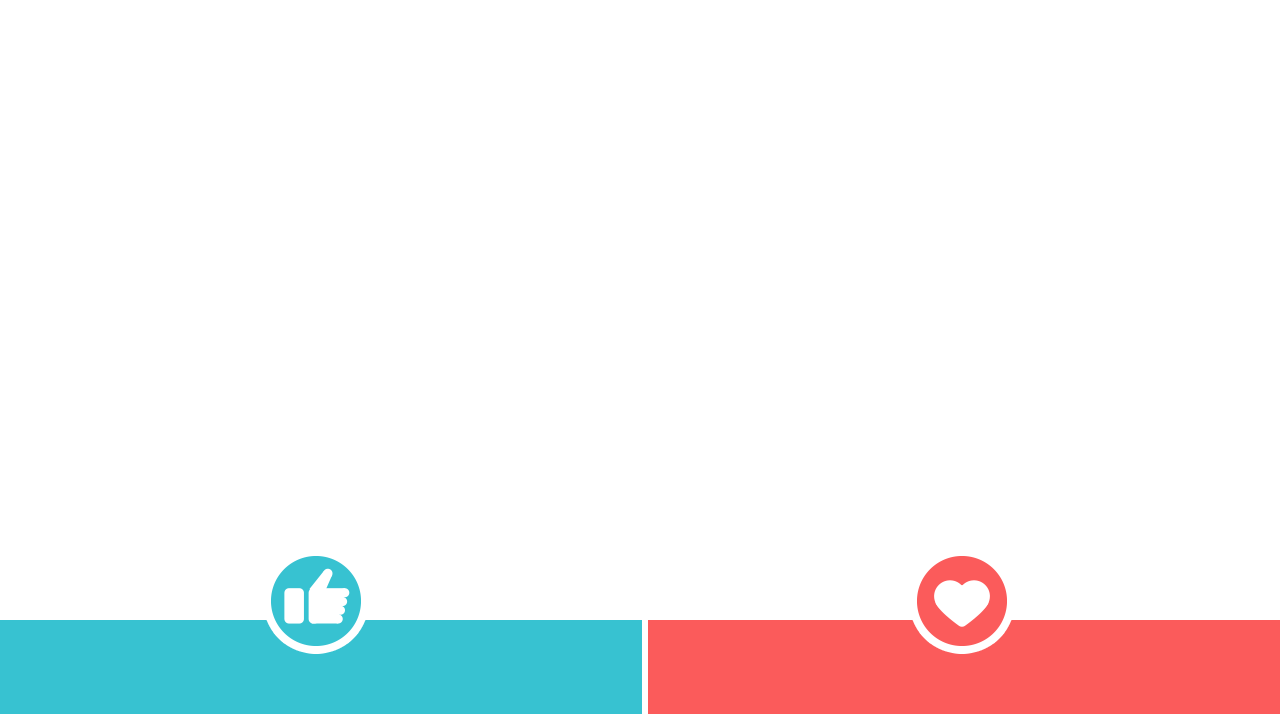
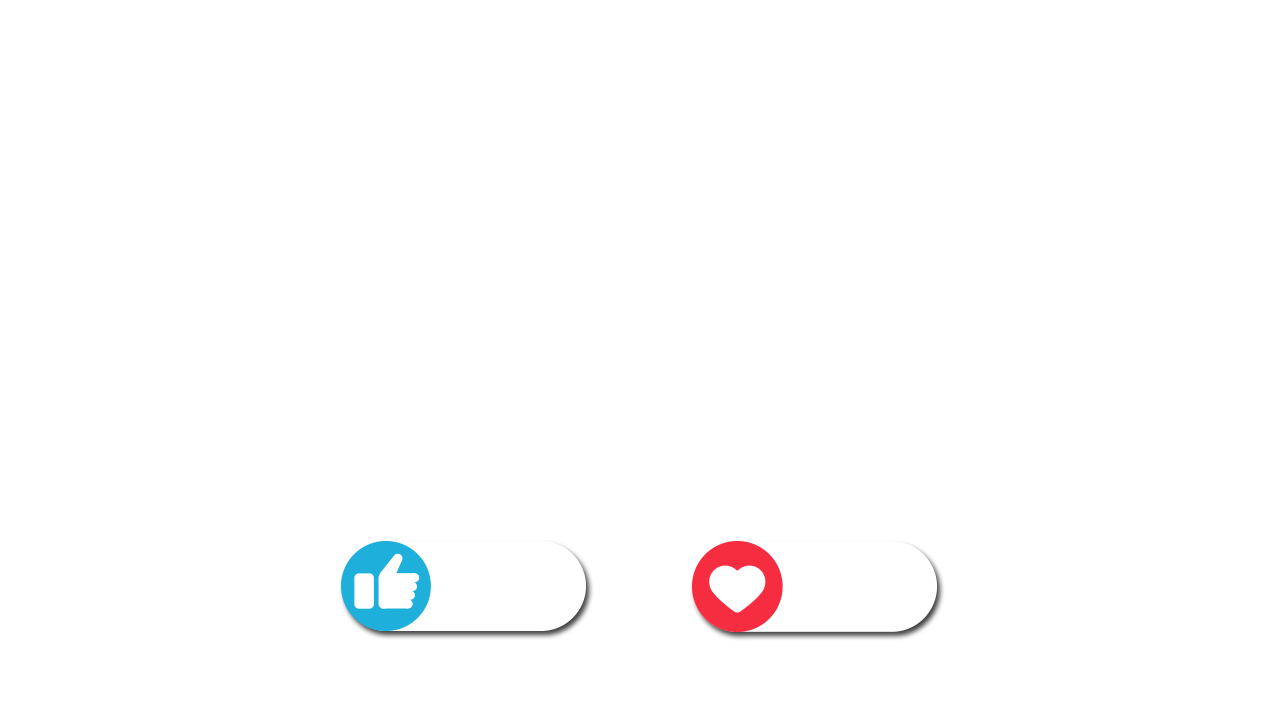
updated for black ink crew

Changed region(s): [[0.0, 0.7333, 1.0, 1.0]]

diff --git a/css/page.css b/css/page.css
@@ -1,3 +1,14 @@
+@font-face {
+    font-family: atb;
+    src: url('avg.ttf');
+}
+
+body
+{
+    font-family: atb;
+}
+
+
 .screen {
     width: 1280px;
     height: 720px;
@@ -43,12 +54,12 @@ video
 }
 
 .voteValue {
-    font-family: helvetica, sans-serif;
-    width:150px;
-    font-size: 50px;
+    font-family: atb;
+    width:155px;
+    font-size: 35px;
     font-weight: bold;
     background-color: none;
-    color: white;
+    color: black;
     text-align: center;
     padding: 10px;
     border-radius: 50px;
@@ -57,14 +68,14 @@ video
 
 #like {
     position: absolute;
-    top: 645px;
-    left: 235px;
+    top: 555px;
+    left: 417px;
 }
 
 #love {
     position: absolute;
-    top: 645px;
-    left: 878px;
+    top: 555px;
+    left: 770px;
 }
 
 #haha {
